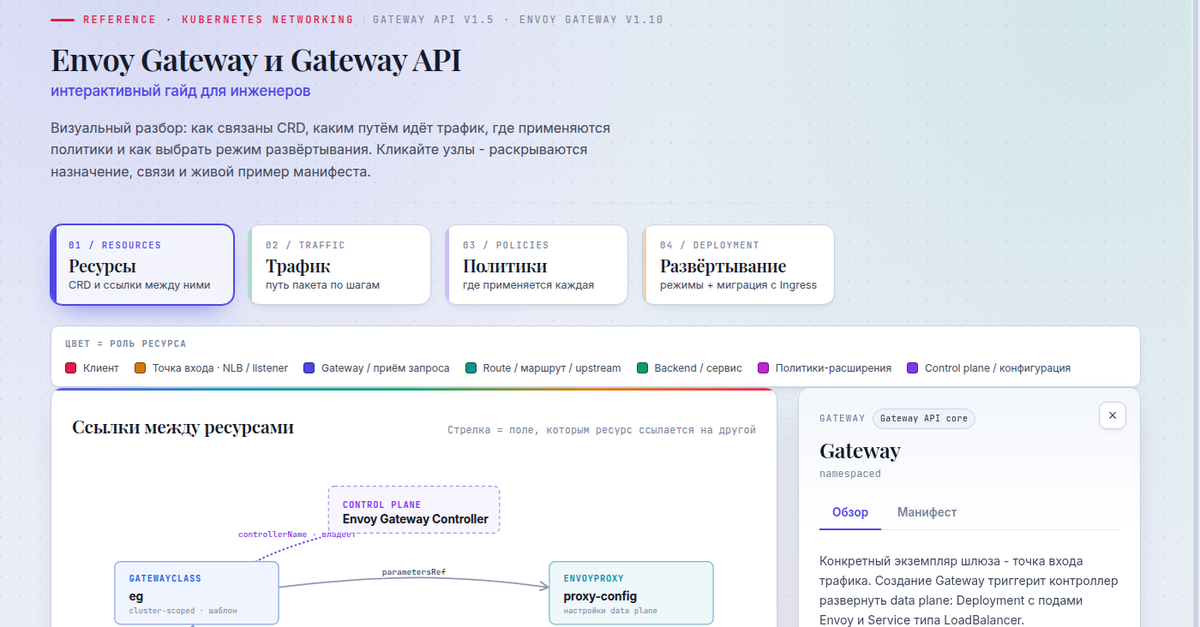
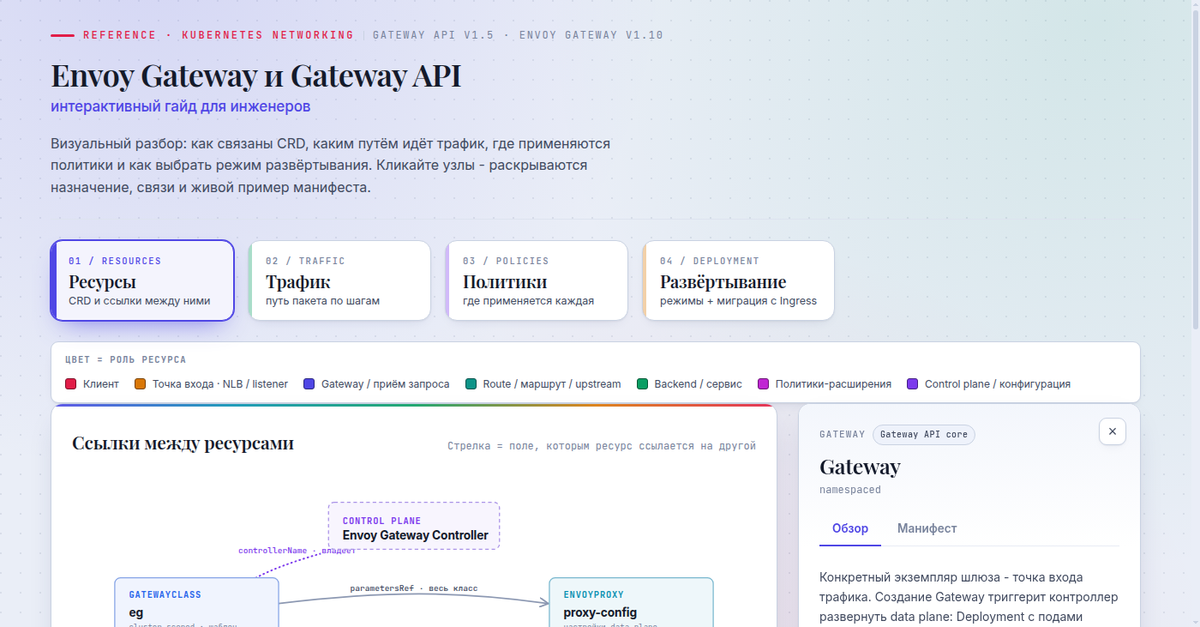
Reshoot the OG preview against the current Resources layer
It is a screenshot of the layer that just changed, and LinkedIn caches per URL
on first scrape - a stale card would have been permanent.

diff --git a/envoy-gateway-visualization/TODO.md b/envoy-gateway-visualization/TODO.md
@@ -25,7 +25,11 @@
 - [x] `og:type`, `og:url`, `og:title`, `og:description`, `og:image` (+ `width`/`height`/`alt`),
       `og:site_name`, `og:locale`, `twitter:card` - абсолютными URL на `envoy-gateway-guide.onrender.com`.
 - [x] Превью `og-preview.png` **1200×627** - слой «Ресурсы» с раскрытой панелью узла Gateway
-      (видно, что гайд интерактивный, а не картинка).
+      (видно, что гайд интерактивный, а не картинка). Снимается при 1400×731 и масштабируется
+      до 1200×627 - при съёмке сразу в 1200 схема в кадр почти не попадает.
+      **Переснимать при любой правке слоя «Ресурсы» или шапки:** это скриншот, и он тихо
+      начинает показывать гайд, которого больше нет. Последний раз - август 2026, после
+      добавления второй точки привязки EnvoyProxy.
 - [ ] Прогнать урл через [Post Inspector](https://www.linkedin.com/post-inspector/)
       **после деплоя и до публикации**: LinkedIn кеширует превью по URL надолго, неудачный
       первый скрейп застрянет в ленте.
@@ -45,5 +49,5 @@
 ---
 
 **Не забыть при любой правке ассетов:** бампнуть кэш-бастинг во всех местах `index.html` -
-`?v=N` у `styles.css`, у `data.js` и константа `V` в bootstrap (сейчас 27). Точные места -
-`grep -n '?v=' index.html`.
+`?v=N` у `styles.css`, у `data.js` и константа `V` в bootstrap (сейчас 28). Точные места -
+`grep -n '?v=' index.html` - число здесь дрейфует, счёт по grep надёжнее этой строки.
